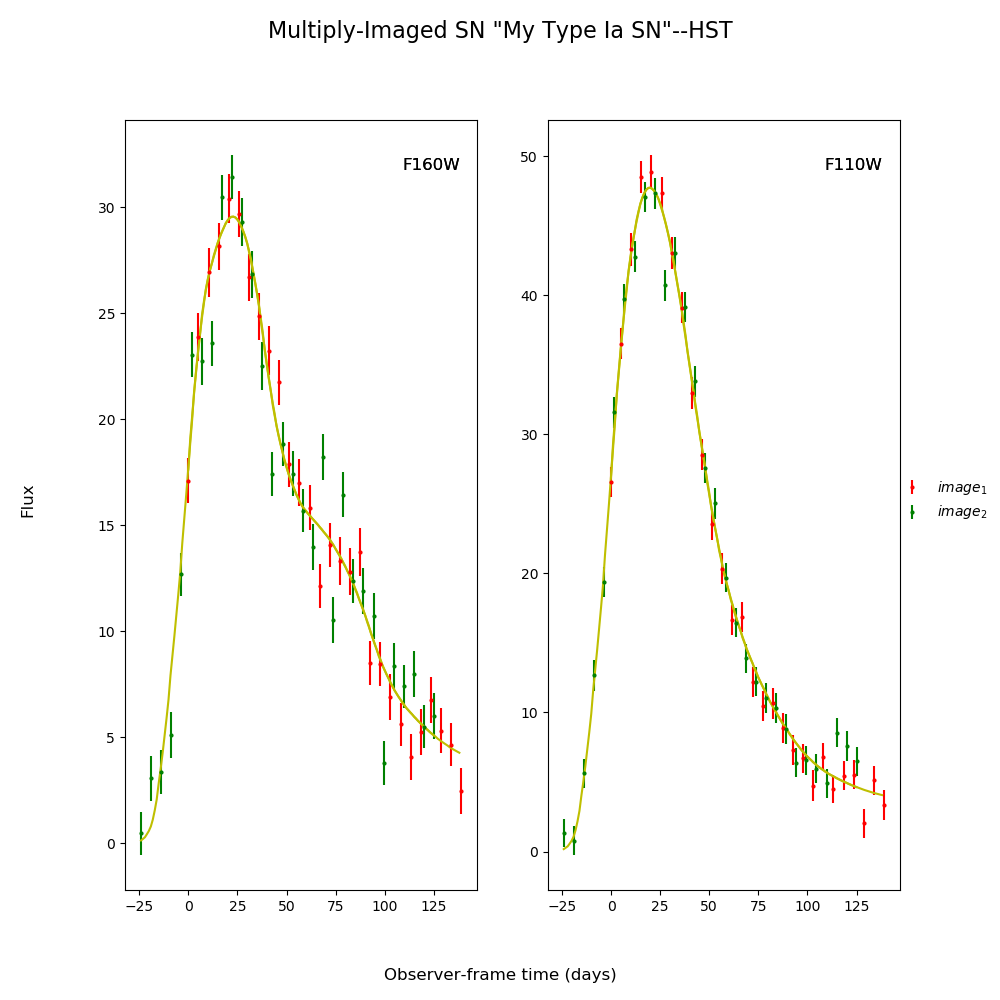
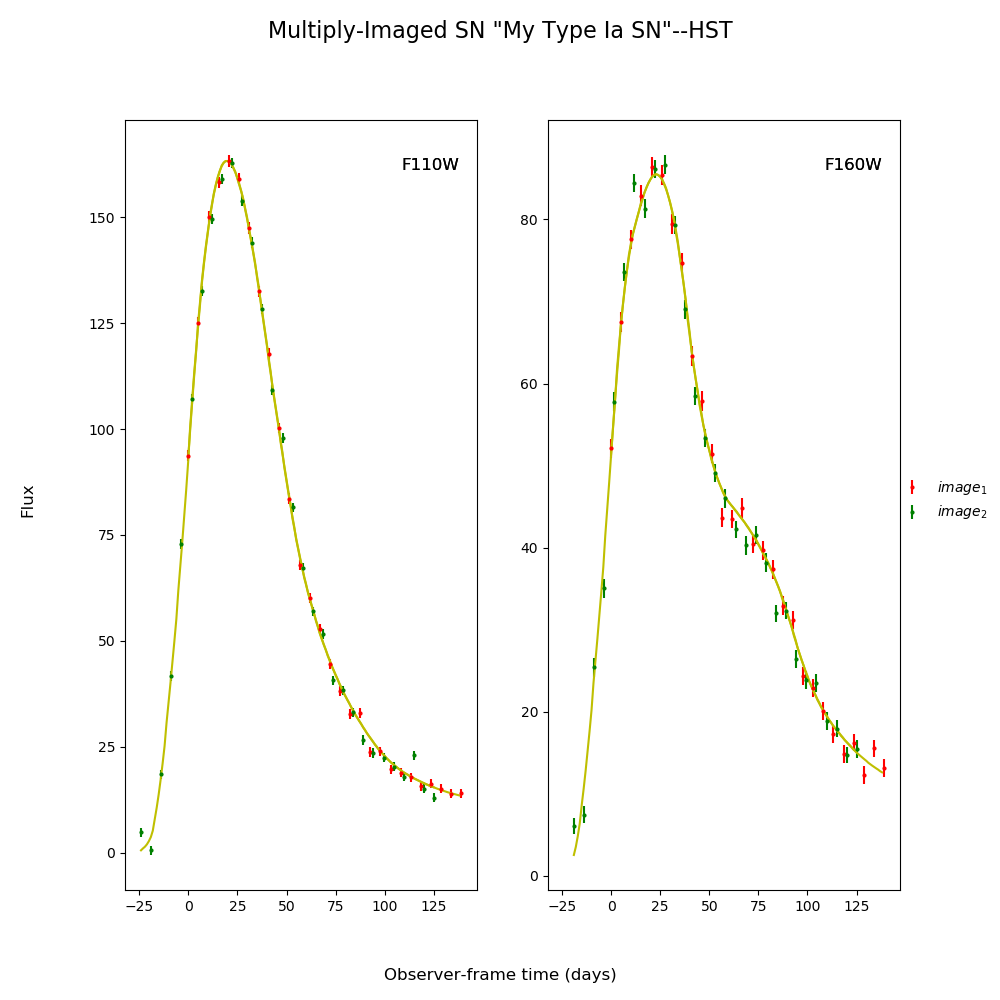
docs updates

diff --git a/docs/source/_examples/plot_fitting.py b/docs/source/_examples/plot_fitting.py
@@ -61,8 +61,8 @@ fitCurves.plot_fit(method='series')
     
 fitCurves=sntd.fit_data(myMISN,snType='Ia', models='salt2-extended',bands=['F110W','F160W'],
                     params=['t0','c'],constants={'z':1.4,'x1':fitCurves.images['image_1'].fits.model.get('x1')},refImage='image_1',
-                    bounds={'t0':(-20,20),'td':(-20,20),'mu':(.5,2),'c':(-.5,.5)},cut_time=[-50,30],
-                    method='color',microlensing=None,modelcov=False,npoints=100,maxiter=None)
+                    color_param_ignore=['x1'],bounds={'t0':(-20,20),'td':(-20,20),'mu':(.5,2),'c':(-.5,.5)},cut_time=[-50,30],
+                    method='color',microlensing=None,modelcov=False,npoints=100,maxiter=None,minsnr=3)
 
 print(fitCurves.color.time_delays)
 print(fitCurves.color.time_delay_errors)
@@ -81,7 +81,7 @@ fitCurves_parallel=sntd.fit_data(myMISN,snType='Ia', models='salt2-extended',ban
 fitCurves_color=sntd.fit_data(myMISN,snType='Ia', models='salt2-extended',bands=['F110W','F160W'],cut_time=[-50,30],
                 	params=['t0','c'],constants={'z':1.4,'x1':fitCurves.images['image_1'].fits.model.get('x1')},refImage='image_1',
                 	bounds={'t0':(-20,20),'td':(-20,20),'mu':(.5,2),'c':(-.5,.5)},fit_prior=fitCurves_parallel,
-                	method='color',microlensing=None,modelcov=False,npoints=100,maxiter=None)
+                	method='color',microlensing=None,modelcov=False,npoints=100,maxiter=None,minsnr=3)
 
 print(fitCurves_parallel.parallel.time_delays)
 print(fitCurves_parallel.parallel.time_delay_errors)

diff --git a/docs/source/examples/plot_fitting.py b/docs/source/examples/plot_fitting.py
@@ -61,8 +61,8 @@ fitCurves.plot_fit(method='series')
     
 fitCurves=sntd.fit_data(myMISN,snType='Ia', models='salt2-extended',bands=['F110W','F160W'],
                     params=['t0','c'],constants={'z':1.4,'x1':fitCurves.images['image_1'].fits.model.get('x1')},refImage='image_1',
-                    bounds={'t0':(-20,20),'td':(-20,20),'mu':(.5,2),'c':(-.5,.5)},cut_time=[-50,30],
-                    method='color',microlensing=None,modelcov=False,npoints=100,maxiter=None)
+                    color_param_ignore=['x1'],bounds={'t0':(-20,20),'td':(-20,20),'mu':(.5,2),'c':(-.5,.5)},cut_time=[-50,30],
+                    method='color',microlensing=None,modelcov=False,npoints=100,maxiter=None,minsnr=3)
 
 print(fitCurves.color.time_delays)
 print(fitCurves.color.time_delay_errors)
@@ -81,7 +81,7 @@ fitCurves_parallel=sntd.fit_data(myMISN,snType='Ia', models='salt2-extended',ban
 fitCurves_color=sntd.fit_data(myMISN,snType='Ia', models='salt2-extended',bands=['F110W','F160W'],cut_time=[-50,30],
                 	params=['t0','c'],constants={'z':1.4,'x1':fitCurves.images['image_1'].fits.model.get('x1')},refImage='image_1',
                 	bounds={'t0':(-20,20),'td':(-20,20),'mu':(.5,2),'c':(-.5,.5)},fit_prior=fitCurves_parallel,
-                	method='color',microlensing=None,modelcov=False,npoints=100,maxiter=None)
+                	method='color',microlensing=None,modelcov=False,npoints=100,maxiter=None,minsnr=3)
 
 print(fitCurves_parallel.parallel.time_delays)
 print(fitCurves_parallel.parallel.time_delay_errors)

diff --git a/docs/source/_examples/plot_sim.py b/docs/source/_examples/plot_sim.py
@@ -18,7 +18,7 @@ import sntd
 
 myMISN = sntd.createMultiplyImagedSN(sourcename='salt2-extended', snType='Ia', redshift=1.4,z_lens=.53, bands=['F110W','F160W'],
              zp=[26.8,26.2], cadence=5., epochs=35.,time_delays=[20., 70.], magnifications=[10,5],
- objectName='My Type Ia SN',telescopename='HST')
+ objectName='My Type Ia SN',telescopename='HST',av_host=False)
 print(myMISN)
 myMISN.plot_object()
 

diff --git a/docs/source/examples/plot_sim.py b/docs/source/examples/plot_sim.py
@@ -18,7 +18,7 @@ import sntd
 
 myMISN = sntd.createMultiplyImagedSN(sourcename='salt2-extended', snType='Ia', redshift=1.4,z_lens=.53, bands=['F110W','F160W'],
              zp=[26.8,26.2], cadence=5., epochs=35.,time_delays=[20., 70.], magnifications=[10,5],
- objectName='My Type Ia SN',telescopename='HST')
+ objectName='My Type Ia SN',telescopename='HST',av_host=False)
 print(myMISN)
 myMISN.plot_object()
 

diff --git a/docs/source/examples/plot_fitting.rst b/docs/source/examples/plot_fitting.rst
@@ -72,10 +72,10 @@ delay for all of these fits is 50 days.
 
  .. code-block:: none
 
-    {'image_1': 0, 'image_2': 49.9985803494886}
-    {'image_1': array([0, 0]), 'image_2': array([-0.51177351,  0.45040825])}
-    {'image_1': 1, 'image_2': 0.49736985736500794}
-    {'image_1': array([0, 0]), 'image_2': array([-0.0141462 ,  0.01851803])}
+    {'image_1': 0, 'image_2': 49.860556660583946}
+    {'image_1': array([0, 0]), 'image_2': array([-0.15561465,  0.14250854])}
+    {'image_1': 1, 'image_2': 0.5026650472661763}
+    {'image_1': array([0, 0]), 'image_2': array([-0.00472346,  0.00490838])}
 
     <Figure size 970x970 with 16 Axes>
 
@@ -129,10 +129,10 @@ Other methods are called in a similar fashion, with a couple of extra arguments:
 
  .. code-block:: none
 
-    {'image_1': 0, 'image_2': 49.80415396105778}
-    {'image_1': array([0, 0]), 'image_2': array([-0.34824474,  0.37816746])}
-    {'image_1': 1, 'image_2': 0.510471204611251}
-    {'image_1': array([0, 0]), 'image_2': array([-0.00509144,  0.00556558])}
+    {'image_1': 0, 'image_2': 49.84096677329644}
+    {'image_1': array([0, 0]), 'image_2': array([-0.07142286,  0.07903005])}
+    {'image_1': 1, 'image_2': 0.5040792581408016}
+    {'image_1': array([0, 0]), 'image_2': array([-0.00143155,  0.00162082])}
 
     <Figure size 1390x1390 with 36 Axes>
 
@@ -148,8 +148,8 @@ Other methods are called in a similar fashion, with a couple of extra arguments:
     
     fitCurves=sntd.fit_data(myMISN,snType='Ia', models='salt2-extended',bands=['F110W','F160W'],
                         params=['t0','c'],constants={'z':1.4,'x1':fitCurves.images['image_1'].fits.model.get('x1')},refImage='image_1',
-                        bounds={'t0':(-20,20),'td':(-20,20),'mu':(.5,2),'c':(-.5,.5)},cut_time=[-50,30],
-                        method='color',microlensing=None,modelcov=False,npoints=100,maxiter=None)
+                        color_param_ignore=['x1'],bounds={'t0':(-20,20),'td':(-20,20),'mu':(.5,2),'c':(-.5,.5)},cut_time=[-50,30],
+                        method='color',microlensing=None,modelcov=False,npoints=100,maxiter=None,minsnr=3)
 
     print(fitCurves.color.time_delays)
     print(fitCurves.color.time_delay_errors)
@@ -179,8 +179,8 @@ Other methods are called in a similar fashion, with a couple of extra arguments:
 
  .. code-block:: none
 
-    {'image_1': 0, 'image_2': 50.684879087849076}
-    {'image_1': array([0, 0]), 'image_2': array([-3.08206672,  3.57411765])}
+    {'image_1': 0, 'image_2': 51.58304093454188}
+    {'image_1': array([0, 0]), 'image_2': array([-1.02578827,  1.34245385])}
 
     <Figure size 760x760 with 9 Axes>
 
@@ -201,7 +201,7 @@ You can include your fit from the parallel method as a prior on light curve and 
     fitCurves_color=sntd.fit_data(myMISN,snType='Ia', models='salt2-extended',bands=['F110W','F160W'],cut_time=[-50,30],
                     	params=['t0','c'],constants={'z':1.4,'x1':fitCurves.images['image_1'].fits.model.get('x1')},refImage='image_1',
                     	bounds={'t0':(-20,20),'td':(-20,20),'mu':(.5,2),'c':(-.5,.5)},fit_prior=fitCurves_parallel,
-                    	method='color',microlensing=None,modelcov=False,npoints=100,maxiter=None)
+                    	method='color',microlensing=None,modelcov=False,npoints=100,maxiter=None,minsnr=3)
 
     print(fitCurves_parallel.parallel.time_delays)
     print(fitCurves_parallel.parallel.time_delay_errors)
@@ -217,10 +217,10 @@ You can include your fit from the parallel method as a prior on light curve and 
 
  .. code-block:: none
 
-    {'image_1': 0, 'image_2': 49.98150714866265}
-    {'image_1': array([0, 0]), 'image_2': array([-0.52434736,  0.49941772])}
-    {'image_1': 0, 'image_2': 50.58503664012973}
-    {'image_1': array([0, 0]), 'image_2': array([-1.11444829,  0.65825169])}
+    {'image_1': 0, 'image_2': 49.8547130448932}
+    {'image_1': array([0, 0]), 'image_2': array([-0.13743794,  0.14972471])}
+    {'image_1': 0, 'image_2': 49.79959793855588}
+    {'image_1': array([0, 0]), 'image_2': array([-0.26364169,  0.2988952 ])}
 
 
 
@@ -255,7 +255,7 @@ extreme dust in the source and lens frames (your final simulations may look slig
 
  .. code-block:: none
 
-    lensebv: 0.48387096774193544 hostebv: 0.3225806451612903 c: 0.05689484873204784
+    lensebv: 0.48387096774193544 hostebv: 0.3225806451612903 c: -0.09649250226303359
 
 
 
@@ -289,9 +289,9 @@ Okay, now we can fit the MISN first without taking these effects into account:
 
  .. code-block:: none
 
-    {'image_1': 0, 'image_2': 56.37144308439915}
-    {'image_1': array([0, 0]), 'image_2': array([-1.24819719,  1.31974326])}
-    c: 0.44536110694292835
+    {'image_1': 0, 'image_2': 58.49511851295709}
+    {'image_1': array([0, 0]), 'image_2': array([-0.49744451,  0.52519439])}
+    c: 0.4485049009039765
 
     <Figure size 1000x1000 with 2 Axes>
 
@@ -332,9 +332,9 @@ as it attempts to compensate for extinction without a propagation effect. Now le
 
  .. code-block:: none
 
-    {'image_1': 0, 'image_2': 58.33759568287604}
-    {'image_1': array([0, 0]), 'image_2': array([-1.49599579,  1.41254812])}
-    c: 0.25045148647447085 lensebv: 0.4082530038617715 hostebv: 0.15042008925269848
+    {'image_1': 0, 'image_2': 59.84602683201931}
+    {'image_1': array([0, 0]), 'image_2': array([-0.56489726,  0.53156521])}
+    c: 0.26303473401969024 lensebv: 0.3079005782743273 hostebv: 0.12534865557575403
 
     <Figure size 1000x1000 with 2 Axes>
 
@@ -346,7 +346,7 @@ more accurate.
 
 .. rst-class:: sphx-glr-timing
 
-   **Total running time of the script:** ( 5 minutes  49.975 seconds)
+   **Total running time of the script:** ( 9 minutes  38.110 seconds)
 
 
 .. _sphx_glr_download_examples_plot_fitting.py:

diff --git a/docs/source/examples/plot_sim.rst b/docs/source/examples/plot_sim.rst
@@ -30,7 +30,7 @@ supernova.
 
     myMISN = sntd.createMultiplyImagedSN(sourcename='salt2-extended', snType='Ia', redshift=1.4,z_lens=.53, bands=['F110W','F160W'],
                  zp=[26.8,26.2], cadence=5., epochs=35.,time_delays=[20., 70.], magnifications=[10,5],
-     objectName='My Type Ia SN',telescopename='HST')
+     objectName='My Type Ia SN',telescopename='HST',av_host=False)
     print(myMISN)
     myMISN.plot_object()
 
@@ -55,36 +55,36 @@ supernova.
 
     ------------------
     Image: image_1:
-    Bands: ['F110W', 'F160W']
+    Bands: ['F160W', 'F110W']
     Date Range: 0.00000->138.97059
     Number of points: 56
 
     Metadata:
        z:1.4
        t0:20.0
-       x0:8.88999859195672e-06
-       x1:1.5642737128831914
-       c:0.002151575968023273
+       x0:5.99836319401665e-06
+       x1:0.24077428249899727
+       c:0.03405930070585791
        sourcez:1.4
-       hostebv:0.0967741935483871
+       hostebv:0
        lensebv:0
        lensz:0.53
        mu:10
        td:20.0
     ------------------
     Image: image_2:
-    Bands: ['F110W', 'F160W']
-    Date Range: 30.88235->175.00000
-    Number of points: 57
+    Bands: ['F160W', 'F110W']
+    Date Range: 25.73529->175.00000
+    Number of points: 58
 
     Metadata:
        z:1.4
        t0:70.0
-       x0:4.44499929597836e-06
-       x1:1.5642737128831914
-       c:0.002151575968023273
+       x0:2.999181597008325e-06
+       x1:0.24077428249899727
+       c:0.03405930070585791
        sourcez:1.4
-       hostebv:0.0967741935483871
+       hostebv:0
        lensebv:0
        lensz:0.53
        mu:5
@@ -98,7 +98,7 @@ supernova.
 
 .. rst-class:: sphx-glr-timing
 
-   **Total running time of the script:** ( 0 minutes  5.459 seconds)
+   **Total running time of the script:** ( 0 minutes  8.002 seconds)
 
 
 .. _sphx_glr_download_examples_plot_sim.py:

diff --git a/docs/source/examples/sg_execution_times.rst b/docs/source/examples/sg_execution_times.rst
@@ -5,10 +5,10 @@
 
 Computation times
 =================
-**05:49.975** total execution time for **examples** files:
+**09:38.110** total execution time for **examples** files:
 
 +----------------------------------------------------------------+-----------+--------+
-| :ref:`sphx_glr_examples_plot_fitting.py` (``plot_fitting.py``) | 05:49.975 | 0.0 MB |
+| :ref:`sphx_glr_examples_plot_fitting.py` (``plot_fitting.py``) | 09:38.110 | 0.0 MB |
 +----------------------------------------------------------------+-----------+--------+
 | :ref:`sphx_glr_examples_plot_micro.py` (``plot_micro.py``)     | 00:00.000 | 0.0 MB |
 +----------------------------------------------------------------+-----------+--------+
